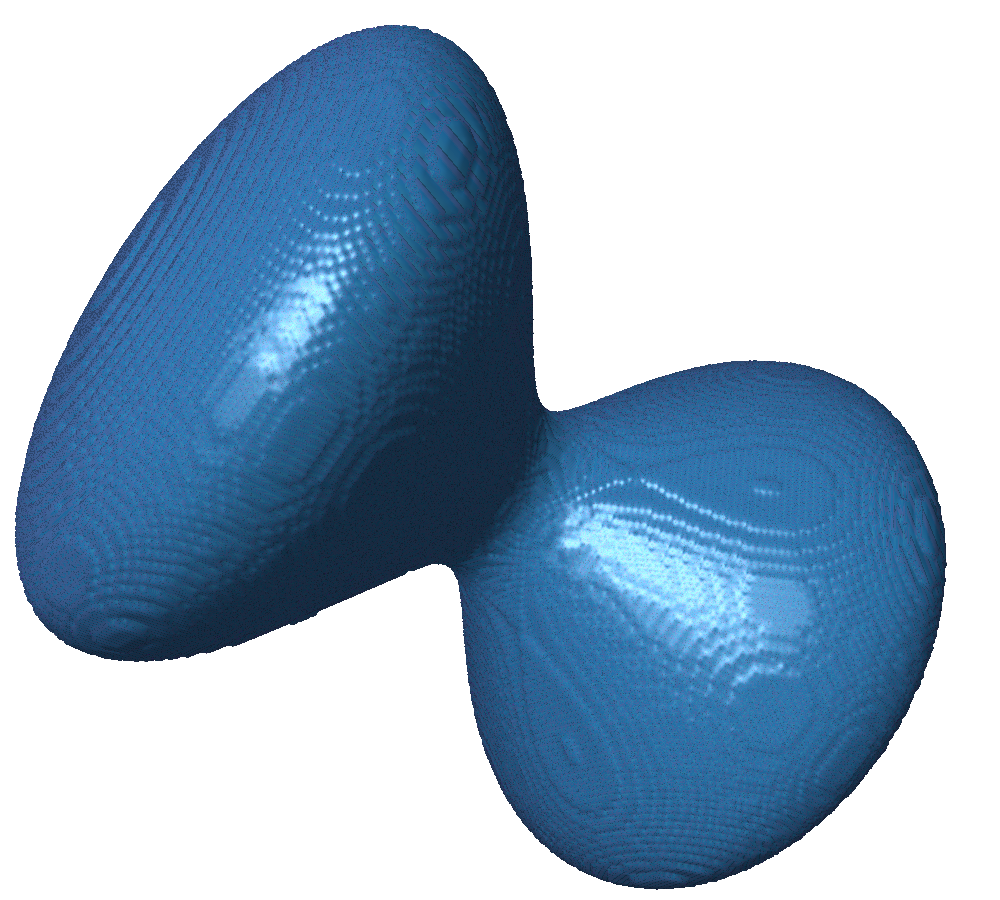
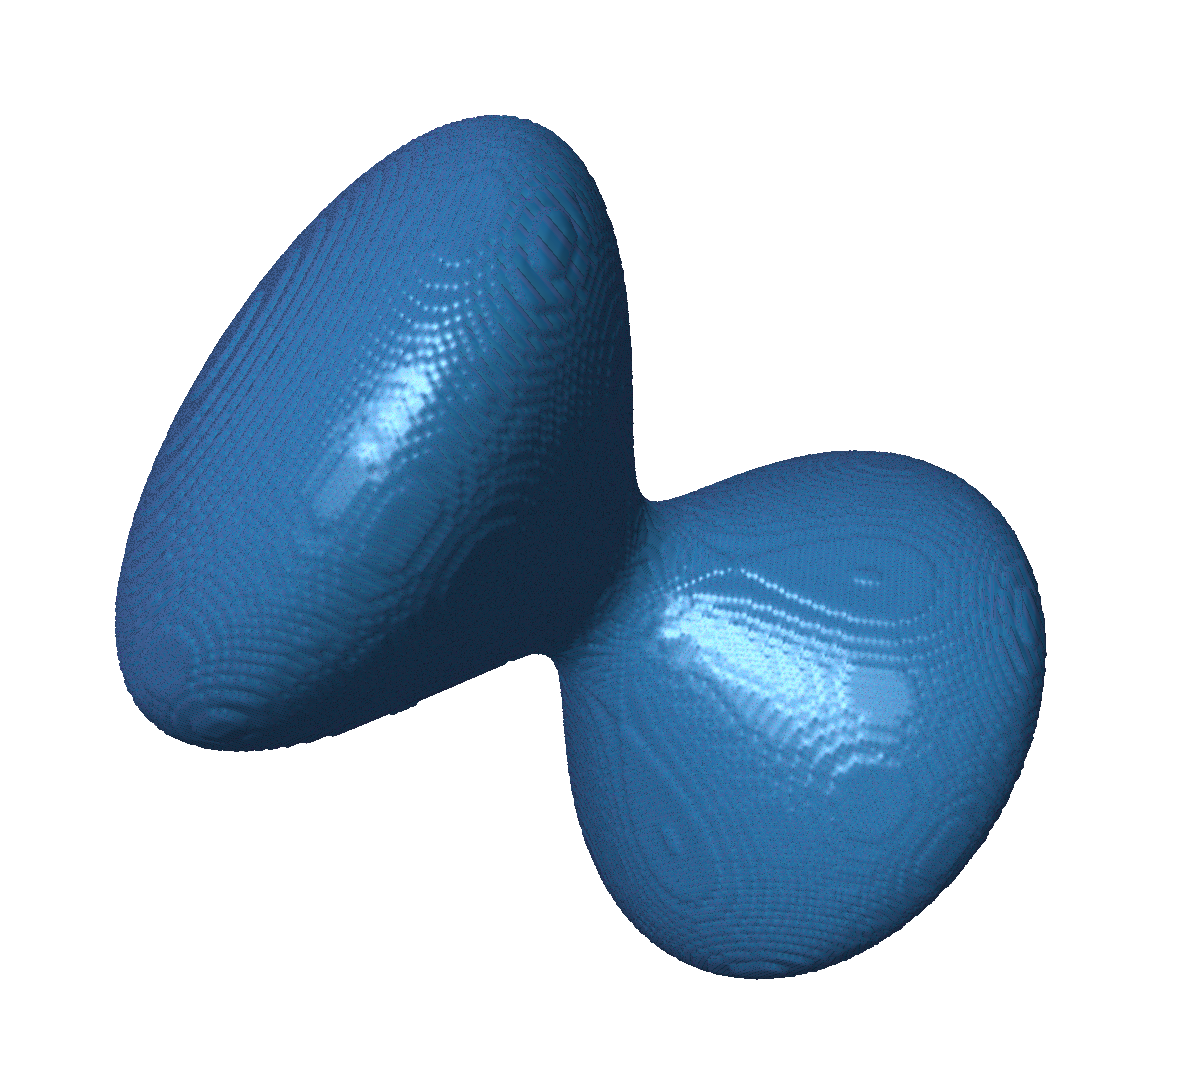
Smaller dumpbell

Changed region(s): [[0.0, 0.0311, 0.961, 0.9956]]

diff --git a/paper.tex b/paper.tex
@@ -597,7 +597,7 @@ farther than 0.1 (20 pixels) from curves of discontinuity (see
   \subfigure[$F_{sss}$: calculated with our approach]{
     \includegraphics[width=0.4\linewidth]{images/dumbbell-sss-julia.png}}
   \caption[]{A comparison of $F_{sss}$ function calculated using our approach
-    with its precise values. \highlight{Make dumbbell around 20 percent smaller}}
+    with its precise values.}
   \label{fig:sss-verification}
 \end{figure*}
 
